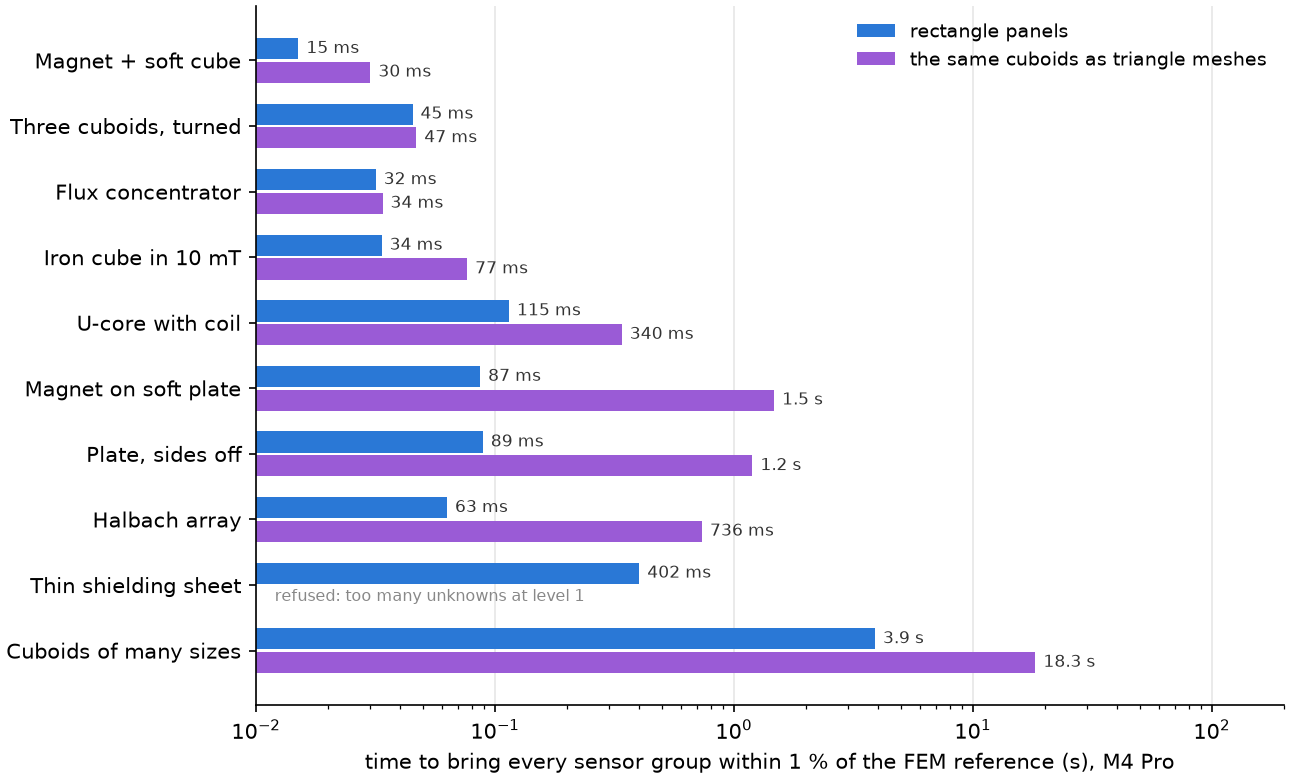
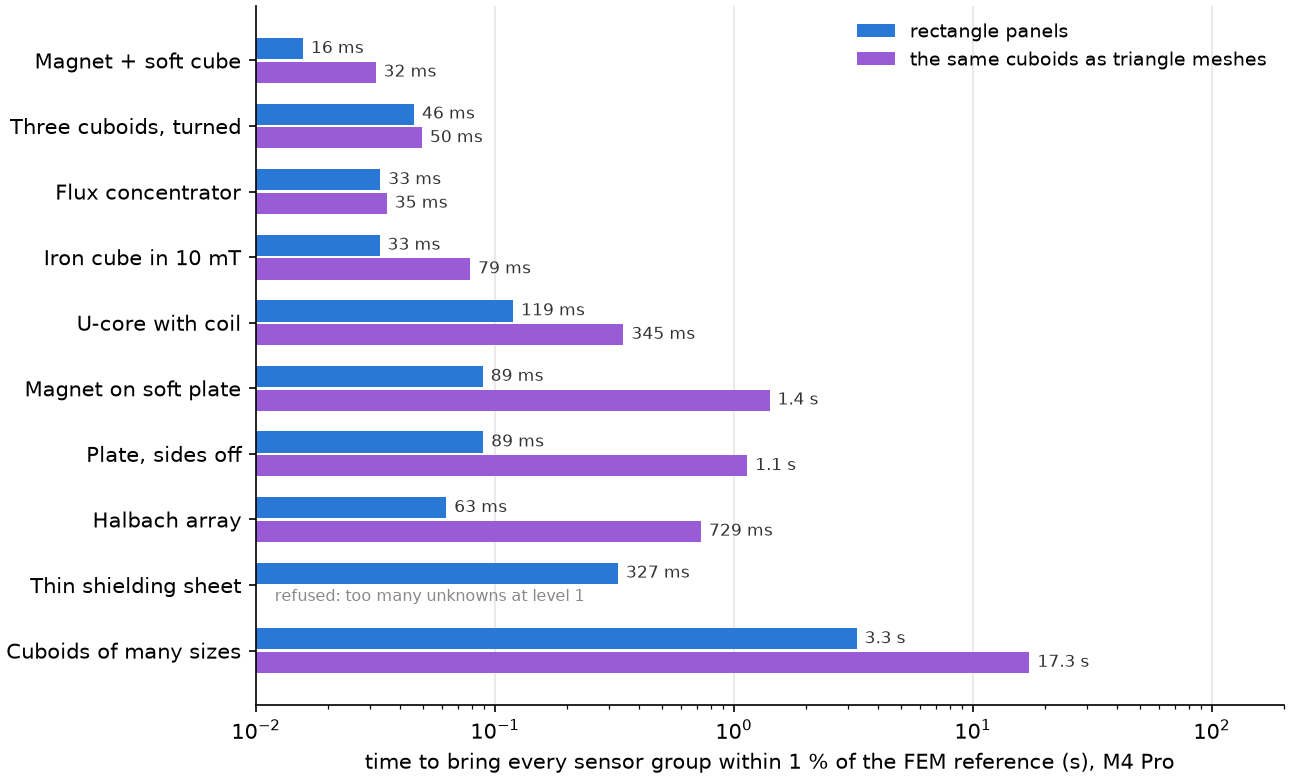
Factorize large face-charge systems in single precision, refined to double
From 2,000 unknowns, the dense system is LU-factorized in float32 and
refined against the float64 matrix until the residual is at double's
rounding, as LAPACK's dsgesv, which scipy does not wrap; in double alone
if the refinement stalls. Every validation case converges in 2 to 3
refinements, and its fields stay within 2e-9 of the double solve.

The LU runs 3 to 4 times faster from 4,500 unknowns, and twice as fast at
28,800 (18.8 -> 9.3 s), where copying the matrix to float32 also counts.
The cost is a single-precision copy beside the system: 4.8 GB at the
20,000-unknown cap instead of 3.2.

Docs timings, the FEM table and the rectangles-against-triangles figure
re-measured.

diff --git a/src/magpylib_material_response/face_charge/_bodies.py b/src/magpylib_material_response/face_charge/_bodies.py
@@ -44,6 +44,11 @@ LAYER = 2.0  # graded layer length, in half the body's smallest side
 # grade the mesh, and coplanar panels couple exactly. Lines closer than this
 # are one line. Coordinates from float32 CAD data are good to about 1e-7.
 CONTACT = 1e-6
+# systems from this size on are factorized in single precision and refined, for
+# a single-precision copy beside them, half their size again; smaller ones solve
+# in milliseconds anyway
+MIXED = 2_000
+REFINEMENTS = 30  # at most, as dsgesv
 
 
 class Part:
@@ -521,7 +526,29 @@ def solve_system(bodies, external):
                 coupling_block(a, bodies[ib]),
                 out=A[rows, offsets[ib] : offsets[ib + 1]],
             )
+    x = _solve(A, rhs)
+    return [x[offsets[k] : offsets[k + 1]] for k in range(n_bodies)]
+
+
+def _solve(A, b):
+    """``A x = b``, overwriting ``A``. From ``MIXED`` unknowns on, as LAPACK's
+    ``dsgesv``, which scipy does not wrap: LU in single precision, three times
+    faster, refined against ``A`` until the residual is at double's rounding;
+    in double alone if that stalls."""
+    n = len(b)
+    if n >= MIXED:
+        lu = scipy.linalg.lu_factor(
+            A.astype(np.float32, order="F"), overwrite_a=True, check_finite=False
+        )
+        norm = scipy.linalg.norm(A, np.inf, check_finite=False)
+        tol = np.sqrt(n) * np.finfo(float).eps * norm
+        x, r = np.zeros(n), b
+        for _ in range(REFINEMENTS):
+            x += scipy.linalg.lu_solve(lu, r.astype(np.float32), check_finite=False)
+            r = b - A @ x
+            if np.abs(r).max() <= tol * np.abs(x).max():
+                return x
+        del lu
     # in place: factorizing a copy of this dense system peaked at three times
     # its size
-    x = scipy.linalg.solve(A, rhs, overwrite_a=True, check_finite=False)
-    return [x[offsets[k] : offsets[k + 1]] for k in range(n_bodies)]
+    return scipy.linalg.solve(A, b, overwrite_a=True, check_finite=False)

diff --git a/tests/test_face_charge.py b/tests/test_face_charge.py
@@ -9,7 +9,7 @@ from scipy.spatial import ConvexHull
 from scipy.spatial.transform import Rotation as R
 
 from magpylib_material_response.face_charge import ChargeSheet, apply_face_charge
-from magpylib_material_response.face_charge._bodies import solve_system
+from magpylib_material_response.face_charge._bodies import _solve, solve_system
 from magpylib_material_response.face_charge._mesh import graded_triangles
 from magpylib_material_response.face_charge._sheet import saturation
 from magpylib_material_response.face_charge._triangle import (
@@ -500,6 +500,20 @@ def test_too_many_unknowns_raise_before_assembly():
             magpy.Collection(cube), level=2, refine=1, max_unknowns=300
         )
     assert np.isfinite(solved.getB((0, 0, 0.01))).all()
+
+
+@pytest.mark.parametrize(
+    "condition", [1e3, 1e10], ids=["refined", "past single precision"]
+)
+def test_mixed_precision_solves_to_double_accuracy(monkeypatch, condition):
+    monkeypatch.setattr("magpylib_material_response.face_charge._bodies.MIXED", 0)
+    rng = np.random.default_rng(0)
+    q = np.linalg.qr(rng.normal(size=(200, 200)))[0]
+    A = np.asfortranarray(q * np.geomspace(1, 1 / condition, 200) @ q.T)
+    b = rng.normal(size=200)
+    x = _solve(A.copy(order="F"), b)
+    residual = np.abs(b - A @ x).max() / (np.abs(A).sum(1).max() * np.abs(x).max())
+    assert residual < 1e-14
 
 
 @pytest.mark.parametrize(

diff --git a/src/magpylib_material_response/face_charge/_apply.py b/src/magpylib_material_response/face_charge/_apply.py
@@ -73,10 +73,12 @@ def apply_face_charge(
         uniform panels with four times the unknowns.
     max_unknowns : int, default 20_000
         Refuse a solve with more unknowns than this. All bodies form one dense
-        system, of 8 n² bytes for n unknowns: 20,000 take 3.2 GB, and up to
-        twice that while a single large body is assembled. Unknowns grow
-        with the square of `level` and with every refinement round, and with
-        the number of bodies: 100 small cubes take 7,200 at level 1.
+        system, of 8 n² bytes for n unknowns: 20,000 take 3.2 GB, half as
+        much again while it is solved (in single precision, refined to double's
+        accuracy), and up to twice that while a single large body is
+        assembled. Unknowns grow with the square of `level` and with every
+        refinement round, and with the number of bodies: 100 small cubes take
+        7,200 at level 1.
     min_log_time : float, optional
         Log steps that take longer than this, in seconds; by default the value
         of :func:`~magpylib_material_response.configure_logging`.

diff --git a/docs/face_charge.md b/docs/face_charge.md
@@ -48,14 +48,14 @@ parts solved together share it, so their colours compare.
   own uncertainty, 0.64 % at worst, where `apply_demag` at the documented
   settings is off by up to 23 %. On soft iron it is 20 to 40 times more accurate
   than `apply_demag` in the same time, and it reaches 1 % faster than finite
-  elements on every validation case both reach it on, 2 to 108 times (below).
+  elements on every validation case both reach it on, 2 to 105 times (below).
 - **Where it is slower:** a few weak magnets alone (`apply_demag` reaches the
   same accuracy faster), many bodies (one dense coupled system: 100 small cubes
   take 7,200 unknowns at level 1 and four times as many at level 2), thin sheets
   (panels sized to the thickness across the whole sheet), and two solved parts a
   small gap apart, as the mesh is graded toward touching parts only. A solve
-  that would need more than `max_unknowns`, 20,000 by default, a 3.2 GB system,
-  is refused before it is assembled.
+  that would need more than `max_unknowns`, 20,000 by default, a 3.2 GB system
+  and 4.8 GB while it is solved, is refused before it is assembled.
 - **Magnets on a part:** a magnet without susceptibility resting on a solved
   part, or close above it, converges like the rest when it is a cuboid aligned
   with the part: the mesh follows its footprint and the field near it is
@@ -92,18 +92,18 @@ solved = apply_face_charge(magpy.Collection(part, coil), level=2)
 ![The validation's CAD part in a 10 mT field along a direction no symmetry helps with, and the U-core as one closed mesh with its coil, each solved at level 2 and drawn by show() with its graded triangles.](_static/images/face_charge_triangles.png)
 
 - **How well:** the validation's CAD part, a plate with filleted corners and a
-  round hole, reaches 0.70 % of its finite-element reference at level 1 in 0.30
-  s, 0.16 % at level 2 in 0.75 s, and the reference's own 0.07 % from level 3,
-  in 1.6 s. The U-core as one closed mesh is within its reference's 0.25 % from
+  round hole, reaches 0.70 % of its finite-element reference at level 1 in 0.31
+  s, 0.16 % at level 2 in 0.66 s, and the reference's own 0.07 % from level 3,
+  in 1.3 s. The U-core as one closed mesh is within its reference's 0.25 % from
   level 2.
 - **Cuboids stay cuboids:** a box given as triangles needs twice the unknowns of
   its rectangle panels for the same accuracy, and the U-core as three cuboids
   reaches its reference's accuracy 5 times faster than as one mesh. Give a part
   as cuboids where it is made of them: on the nine validation cases both solve,
-  rectangle panels reach 1 % as fast to 17 times faster, and a thin sheet needs
+  rectangle panels reach 1 % as fast to 16 times faster, and a thin sheet needs
   too many triangles to solve at all.
 
-![Time to bring every sensor group within 1 % of the FEM reference, per validation case, with the solved cuboids as rectangle panels and as triangle meshes: rectangles 15 ms to 3.9 s on ten cases, triangles 30 ms to 18 s on nine, the thin sheet refused as too many unknowns.](_static/images/face_charge_rect_vs_tri.png)
+![Time to bring every sensor group within 1 % of the FEM reference, per validation case, with the solved cuboids as rectangle panels and as triangle meshes: rectangles 16 ms to 3.3 s on ten cases, triangles 32 ms to 17 s on nine, the thin sheet refused as too many unknowns.](_static/images/face_charge_rect_vs_tri.png)
 
 - **Touching parts:** faces of two parts in one plane couple exactly, whatever
   their panels, and a triangle mesh is graded toward the outline of whatever
@@ -129,26 +129,26 @@ finite elements are `fem_solve` at orders 2 to 5:
 | ---------------------------- | -----------------: | ---------: | -------------------: | -----------: |
 | Three cuboids, turned        |             0.05 s |      2.6 s |               0.05 s |        2.6 s |
 | Magnet beside a soft cube    |             0.02 s |      2.3 s |               0.09 s |        2.3 s |
-| U-core driven by a coil      |             0.13 s |      8.5 s |                  – ¹ |          – ¹ |
-| Flux concentrator            |             0.03 s |     0.83 s |               0.06 s |        3.3 s |
-| Halbach array on back iron   |             0.06 s |      1.5 s |               0.06 s |        6.3 s |
+| U-core driven by a coil      |             0.14 s |      8.5 s |                  – ¹ |          – ¹ |
+| Flux concentrator            |             0.03 s |     0.83 s |               0.07 s |        3.3 s |
+| Halbach array on back iron   |             0.07 s |      1.5 s |               0.07 s |        6.3 s |
 | Iron cube in 10 mT           |             0.03 s |     0.52 s |               0.05 s |        2.0 s |
-| Magnet on a soft plate       |             0.09 s |      3.1 s |               0.52 s |        5.0 s |
-| Magnet on a plate, sides off |             0.09 s |      2.8 s |               0.53 s |        2.8 s |
-| Thin shielding sheet         |             0.39 s |      2.7 s |                1.3 s |         10 s |
-| CAD part, a triangle mesh    |             0.30 s |       11 s |                1.6 s |         21 s |
-| Cuboids of many sizes        |              4.0 s |      8.3 s |                  – ² |          – ² |
+| Magnet on a soft plate       |             0.09 s |      3.1 s |               0.44 s |        5.0 s |
+| Magnet on a plate, sides off |             0.09 s |      2.8 s |               0.47 s |        2.8 s |
+| Thin shielding sheet         |             0.32 s |      2.7 s |                1.0 s |         10 s |
+| CAD part, a triangle mesh    |             0.31 s |       11 s |                1.3 s |         21 s |
+| Cuboids of many sizes        |              3.6 s |      8.3 s |                  – ² |          – ² |
 | 100 small cubes              |                – ³ |        – ² |                    – |            – |
 
 ¹ The reference, from an independent FEM, is good to 0.25 %. ² The references
 are good to 0.2 % for the cuboids of many sizes and 1.5 % for the 100 cubes. ³
-1.8 % at level 2, in 37 s and 7.7 GB, with `max_unknowns` raised to its 28,800
+1.8 % at level 2, in 35 s and 10 GB, with `max_unknowns` raised to its 28,800
 unknowns.
 
 Face charge reaches 1 % faster than finite elements on all eleven cases both
-reach it on, 17 to 108 times faster on nine. Finite elements come closest where
-fields close to a surface need fine panels (the plate with its sides off, 5
-times at 0.1 %), on the thin sheet (7 times) and where many bodies form one
+reach it on, 17 to 105 times faster on nine. Finite elements come closest where
+fields close to a surface need fine panels (the plate with its sides off, 6
+times at 0.1 %), on the thin sheet (8 times) and where many bodies form one
 large dense system (the cuboids of many sizes, twice).
 
 ## How accurate a solve is
@@ -189,6 +189,8 @@ with `K'` the adjoint double-layer operator of the surface, which depends on the
 shape only. The faces are cut into panels graded toward the edges, where a soft
 part's charge is singular. Each panel carries a charge linear across it, with
 fields in closed form, and the equation is solved in its Galerkin form. Touching
-parts are coupled exactly, even when their panels do not match. On a cube the
-method reproduces the polarizability of Helsing and Perfekt (2013) from below,
-as a Galerkin method should: 4.5e-4 off at level 4.
+parts are coupled exactly, even when their panels do not match. From 2,000
+unknowns on, the dense system is factorized in single precision and refined to
+double's accuracy, three times faster. On a cube the method reproduces the
+polarizability of Helsing and Perfekt (2013) from below, as a Galerkin method
+should: 4.5e-4 off at level 4.

diff --git a/CHANGELOG.md b/CHANGELOG.md
@@ -44,9 +44,10 @@ and this project adheres to
   On the six documented examples it lands within each reference's uncertainty,
   0.64 % at worst. `refine` splits the panels where the charge jumps most, and
   each sheet reports `jump_indicator` and `mean_polarization`, hints for
-  accuracy and saturation. All bodies form one dense system: `max_unknowns`,
-  20,000 (3.2 GB) by default, refuses a larger one before it is assembled.
-  `to_json` saves a solved collection
+  accuracy and saturation. All bodies form one dense system, factorized in
+  single precision and refined to double's accuracy: `max_unknowns`, 20,000 (3.2
+  GB, 4.8 GB while solved) by default, refuses a larger one before it is
+  assembled. `to_json` saves a solved collection
   ([#89](https://github.com/magpylib/magpylib-material-response/pull/89),
   [#104](https://github.com/magpylib/magpylib-material-response/pull/104)).
 
